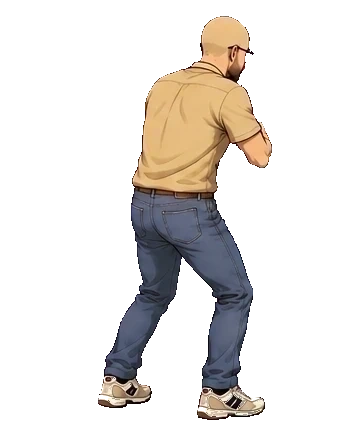
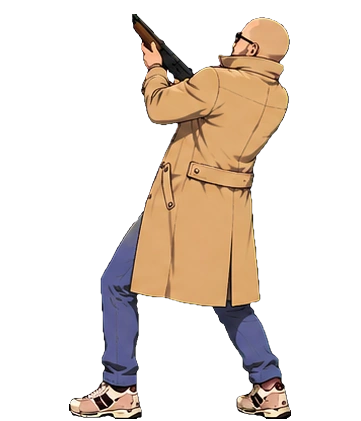
callaghan v7.04 : l'orientation des heros se DECLARE
- 28 sprites de la ruelle refaits, 7/7 poses detectees sur les quatre
  planches.
- LE RENDU RETOURNAIT L'INDICE 1 EN DUR, ce qui reposait sur une hypothese
  jamais ecrite : que toutes les planches regardent a droite. Les nouvelles
  regardent dans deux sens opposes — mesure, Thibaut a droite et PF a
  gauche. Retourner l'indice 1 aurait mis PF a l'endroit et Thibaut a
  l'envers.
- chaque planche declare son SENS NATIF, le rendu retourne seulement quand
  le sens voulu en differe. PF n'est plus miroite : son brassard POLICE
  reste du bon bras.
- deux scenes de controle ajoutees : tir et rechargement des deux heros.
- LES CANONS MESURES, pas devines : th_fumee [0.574, 0.416] et pf_debout
  [0.222, 0.603]. Les deux heros ont desormais le meme jeu de poses.
- un temoin unique par personnage : les sprites 'baisse' font 258 px contre
  406 pour 'vise', donc caler la recharge sur 'baisse' donnait une echelle
  de 0,50 contre 0,92.
- j'ai force h.abri, h.leve, h.couvert — trois champs qui N'EXISTENT PAS.
  Aucune erreur, aucun effet, et j'ai cru un instant a un defaut d'echelle
  de PF. En JS, ecrire un champ inexistant le cree.

Changed region(s): [[0.1828, 0.0309, 0.8227, 1.0]]

diff --git a/callaghan/index.html b/callaghan/index.html
@@ -783,7 +783,7 @@ kbd{
     <div class="lecture" id="dLecture"></div>
   </div>
 
-  <div id="version">CALLAGHAN v7.03</div>
+  <div id="version">CALLAGHAN v7.04</div>
 
   <div id="pupitre2">
     <button class="cmd2" id="c2G" aria-label="Aller à gauche">◀</button>
@@ -855,7 +855,7 @@ kbd{
      UIManager         -> Interface
 ================================================================== */
 
-const VERSION = "7.03";
+const VERSION = "7.04";
 
 /* ---------- géométrie ----------
    Tout est exprimé en « unités monde », où un personnage mesure
@@ -1822,10 +1822,24 @@ const OBJETS_RUELLE = [
 /* Les deux héros derrière la barricade, vus de dos. Thibaut a douze
    poses, PF onze : leurs planches n'en donnaient pas autant, et rien
    n'oblige deux personnages à avoir le même nombre d'images. */
+/* L'ORIENTATION NATIVE DE CHAQUE PLANCHE, déclarée. Le rendu retournait
+   l'héros d'indice 1 EN DUR — ce qui marchait tant que toutes les
+   planches regardaient du même côté. Les nouvelles regardent dans deux
+   sens opposés : Thibaut à droite, PF à gauche, mesuré sur les planches.
+   Un `+1` regarde à droite, un `-1` à gauche. Le rendu retourne
+   l'image quand le sens VOULU diffère du sens natif, au lieu de retourner
+   un indice choisi une fois pour toutes. */
+const SENS_NATIF = { ruel_th: +1, ruel_pf: -1 };
+
+/* Le sens vers lequel chaque héros doit regarder dans la ruelle : ils
+   encadrent la barricade, donc ils se font face. */
+const SENS_VOULU = [+1, -1];
+
 const POSES_RUEL_TH = ["accroupi", "leve1", "leve2", "debout", "arme1", "arme2",
-                       "vise1", "vise2", "tir", "recul1", "recul2", "baisse"];
-const POSES_RUEL_PF = ["accroupi", "leve1", "leve2", "arme1", "arme2", "vise",
-                       "tir", "fumee", "recul1", "recul2", "baisse"];
+                       "vise1", "vise2", "tir", "fumee", "recul1", "recul2",
+                       "baisse"];
+const POSES_RUEL_PF = ["accroupi", "leve1", "leve2", "debout", "arme1", "arme2",
+                       "vise", "tir", "fumee", "recul1", "recul2", "baisse"];
 /* L'intro du niveau 4 : le duo sur la ruelle floutée. Elle sert à deux
    choses — annoncer le niveau, et donner au navigateur le temps de
    charger le décor et les ennemis avant la première image. */
@@ -10324,8 +10338,13 @@ const CANONS = {
     baisse:[0.701, 0.421],   debout:[0.834, 0.496], leve1:[0.562, 0.407],
     leve2:[0.671, 0.393],    recul1:[0.825, 0.136], recul2:[0.725, 0.186],
     tir:[0.964, 0.160],      vise1:[0.894, 0.153],  vise2:[0.906, 0.167],
+    /* MESURÉE sur le nouveau sprite : l'arme retombe, la bouche descend
+       à mi-hauteur et recule au milieu du corps. */
+    fumee:[0.574, 0.416],
   },
   pf: {
+    /* MESURÉE sur le nouveau sprite. */
+    debout:[0.222, 0.603],
     accroupi:[0.701, 0.451], arme1:[0.911, 0.240], arme2:[0.958, 0.093],
     baisse:[0.729, 0.411],   fumee:[0.864, 0.128], leve1:[0.571, 0.492],
     leve2:[0.601, 0.494],    recul1:[0.787, 0.192], recul2:[0.751, 0.342],
@@ -11929,7 +11948,14 @@ const RuelleVue = {
         ang = borne(brut, VISEE_INCLINE_MIN, VISEE_INCLINE_MAX);
       }
       ctx.translate(ex, ey);
-      if (i === 1) ctx.scale(-1, 1);
+      /* ON RETOURNE SI LE SENS VOULU DIFFÈRE DU SENS NATIF de la planche,
+         au lieu de retourner l'indice 1 en dur. L'ancien code supposait
+         que toutes les planches regardaient à droite ; celles de la
+         ruelle regardent dans deux sens opposés — Thibaut à droite, PF à
+         gauche. Retourner l'indice 1 aurait donc mis PF à l'endroit et
+         Thibaut à l'envers. */
+      const natif = SENS_NATIF[h.sprite] || 1;
+      if (SENS_VOULU[i] !== natif) ctx.scale(-1, 1);
       ctx.rotate(-ang);
       ctx.drawImage(spr, -larg / 2, -haut * 0.34, larg, haut);
       /* La flamme de bouche est PEINTE, pas dessinée dans la planche :
@@ -13709,7 +13735,8 @@ globalThis.DTOUR = {
   attenuation, PORTEE_MIN, PORTEE_PLEINE, PROJ_HAUTEUR, ANNONCE_CARTE_MIN, GROGNE_DELAI,
   CANONS, POSES_RUEL_TH, POSES_RUEL_PF,
   HEURES, PART_TYPES, PART_MAX, FLAQUES, MOT_DUREE,
-  BARMANS, BAR_COMPTOIR, BAR_INTRO_PALIER, INTRO_PALIER, POSES_HEROS, POSES_RUEL_TH, POSES_RUEL_PF,
+  BARMANS, BAR_COMPTOIR, BAR_INTRO_PALIER, INTRO_PALIER, POSES_HEROS,
+  SENS_NATIF, SENS_VOULU,
   Transition, nomNiveau, sensNiveau, NOMS_NIVEAUX,
   ENNEMIS_RUELLE, IMAGES_NIVEAU4, Ruelle, RuelleVue, ARMES, ENNEMIS, ZONES_CORPS, VISEE_RECUL, VISEE_VITESSE, RELEVE_TH, RELEVE_PF, IA_REUSSITE, IA_CADENCE, POSES_RUEL_TH, POSES_RUEL_PF, RUELLE_COULOIRS, RUELLE_HORIZON, RUELLE_BARRICADE, RUELLE_DEGAT_BARRICADE, Enquete, EnqVue, Affaire, Dossier, LIENS, conseilInspecteur, PLACES, DEBOUT_APPART, ASSIS_APPART, HortenseApp, Visiteurs, VISITEURS, SUSPECTS, SUSPECTS_BANQUE, PLACES_FIXES, composerSuspects, INDICES, ZONES,
   Heros, Interface, Pause, ECHELLE_PERSO, echellePerso, imagesEssentielles, imagesDifferees, dossierPret, charger, ECHOS, PIECES, BAVARDAGES, SCENARIOS, RIEN, ENQ_TAILLE, ENQ_ACCUSATIONS, remplir, decouperLignes, IMG_CHEMIN, IMG_PAR_DOSSIER, cheminImage, listeImages,

diff --git a/callaghan/tests/apercu.js b/callaghan/tests/apercu.js
@@ -884,6 +884,42 @@ function jouerJusqua(D, condition, limite){
     ecrire(canevas, "48_foulee");
   }
 
+  /* 49. TIR ET RECHARGEMENT DES DEUX HÉROS, pour juger de l'ORIENTATION.
+     Les nouvelles planches regardent dans deux sens opposés — Thibaut à
+     droite, PF à gauche — et le rendu ne retourne plus l'indice 1 en dur
+     mais compare le sens VOULU au sens NATIF. Cette scène est le seul
+     endroit où l'on voit si les deux se font bien face. */
+  for (const [nom, etat] of [["49_ruelle_tir", "tir"], ["50_ruelle_recharge", "recharge"]]){
+    const { D, canevas } = await preparer(390, 780);
+    D.amorcer(); D.Camera.mesurer(390, 780, 1);
+    D.Jeu.demarrer(4);
+    D.Ruelle.introT = 0; D.Ruelle.introSortie = true;
+    D.Ruelle.annonce = null; D.Ruelle.mot = null;
+    for (let i = 0; i < 30; i++) D.Jeu.pas(1 / 60);
+    D.Ruelle.annonce = null;
+    /* LES DEUX HÉROS DOIVENT ÊTRE DEBOUT. Le jeu accroupit celui qui
+       n'est pas actif — c'est voulu, il se met à couvert — mais alors on
+       ne voit qu'une seule arme et on ne peut rien juger de
+       l'orientation. On force donc les deux hors de leur abri.
+       Ma première version forçait le tir sans lever l'abri : PF sortait
+       accroupi et j'ai cru un instant à un défaut d'échelle. */
+    /* `iaActive` EST CE QUI DÉCIDE. J'avais d'abord forcé `h.abri`,
+       `h.leve`, `h.couvert` — trois champs qui n'existent pas sur un
+       héros : l'abri est CALCULÉ au moment du dessin, à partir de
+       `Ruelle.iaActive` et de l'index actif. Forcer des variables sans
+       vérifier qu'elles existent ne fait rien et ne dit rien. */
+    D.Ruelle.iaActive = true;
+    D.Ruelle.couvert = false;
+    if (etat === "tir"){
+      for (const h of D.Ruelle.heros){ h.recharge = 0; h.tirT = 0.05; }
+      D.Ruelle.flashes = D.Ruelle.heros.map((h, i) => ({ heros:i, t:0.03, duree:0.06 }));
+    } else {
+      for (const h of D.Ruelle.heros){ h.recharge = 0.5; h.balles = 0; }
+    }
+    dessinerVia(D, canevas);
+    ecrire(canevas, nom);
+  }
+
   /* 27. les poses propres de Depardiahree, à leur taille de jeu, sur
      une même ligne de sol : c'est la seule façon de voir qu'une pose
      plus haute que les autres ne fait pas grandir le personnage. */

diff --git a/callaghan/parts/a_socle.js b/callaghan/parts/a_socle.js
@@ -18,7 +18,7 @@
      UIManager         -> Interface
 ================================================================== */
 
-const VERSION = "7.03";
+const VERSION = "7.04";
 
 /* ---------- géométrie ----------
    Tout est exprimé en « unités monde », où un personnage mesure
@@ -985,10 +985,24 @@ const OBJETS_RUELLE = [
 /* Les deux héros derrière la barricade, vus de dos. Thibaut a douze
    poses, PF onze : leurs planches n'en donnaient pas autant, et rien
    n'oblige deux personnages à avoir le même nombre d'images. */
+/* L'ORIENTATION NATIVE DE CHAQUE PLANCHE, déclarée. Le rendu retournait
+   l'héros d'indice 1 EN DUR — ce qui marchait tant que toutes les
+   planches regardaient du même côté. Les nouvelles regardent dans deux
+   sens opposés : Thibaut à droite, PF à gauche, mesuré sur les planches.
+   Un `+1` regarde à droite, un `-1` à gauche. Le rendu retourne
+   l'image quand le sens VOULU diffère du sens natif, au lieu de retourner
+   un indice choisi une fois pour toutes. */
+const SENS_NATIF = { ruel_th: +1, ruel_pf: -1 };
+
+/* Le sens vers lequel chaque héros doit regarder dans la ruelle : ils
+   encadrent la barricade, donc ils se font face. */
+const SENS_VOULU = [+1, -1];
+
 const POSES_RUEL_TH = ["accroupi", "leve1", "leve2", "debout", "arme1", "arme2",
-                       "vise1", "vise2", "tir", "recul1", "recul2", "baisse"];
-const POSES_RUEL_PF = ["accroupi", "leve1", "leve2", "arme1", "arme2", "vise",
-                       "tir", "fumee", "recul1", "recul2", "baisse"];
+                       "vise1", "vise2", "tir", "fumee", "recul1", "recul2",
+                       "baisse"];
+const POSES_RUEL_PF = ["accroupi", "leve1", "leve2", "debout", "arme1", "arme2",
+                       "vise", "tir", "fumee", "recul1", "recul2", "baisse"];
 /* L'intro du niveau 4 : le duo sur la ruelle floutée. Elle sert à deux
    choses — annoncer le niveau, et donner au navigateur le temps de
    charger le décor et les ennemis avant la première image. */

diff --git a/callaghan/parts/j_ruelle.js b/callaghan/parts/j_ruelle.js
@@ -353,8 +353,13 @@ const CANONS = {
     baisse:[0.701, 0.421],   debout:[0.834, 0.496], leve1:[0.562, 0.407],
     leve2:[0.671, 0.393],    recul1:[0.825, 0.136], recul2:[0.725, 0.186],
     tir:[0.964, 0.160],      vise1:[0.894, 0.153],  vise2:[0.906, 0.167],
+    /* MESURÉE sur le nouveau sprite : l'arme retombe, la bouche descend
+       à mi-hauteur et recule au milieu du corps. */
+    fumee:[0.574, 0.416],
   },
   pf: {
+    /* MESURÉE sur le nouveau sprite. */
+    debout:[0.222, 0.603],
     accroupi:[0.701, 0.451], arme1:[0.911, 0.240], arme2:[0.958, 0.093],
     baisse:[0.729, 0.411],   fumee:[0.864, 0.128], leve1:[0.571, 0.492],
     leve2:[0.601, 0.494],    recul1:[0.787, 0.192], recul2:[0.751, 0.342],
@@ -1958,7 +1963,14 @@ const RuelleVue = {
         ang = borne(brut, VISEE_INCLINE_MIN, VISEE_INCLINE_MAX);
       }
       ctx.translate(ex, ey);
-      if (i === 1) ctx.scale(-1, 1);
+      /* ON RETOURNE SI LE SENS VOULU DIFFÈRE DU SENS NATIF de la planche,
+         au lieu de retourner l'indice 1 en dur. L'ancien code supposait
+         que toutes les planches regardaient à droite ; celles de la
+         ruelle regardent dans deux sens opposés — Thibaut à droite, PF à
+         gauche. Retourner l'indice 1 aurait donc mis PF à l'endroit et
+         Thibaut à l'envers. */
+      const natif = SENS_NATIF[h.sprite] || 1;
+      if (SENS_VOULU[i] !== natif) ctx.scale(-1, 1);
       ctx.rotate(-ang);
       ctx.drawImage(spr, -larg / 2, -haut * 0.34, larg, haut);
       /* La flamme de bouche est PEINTE, pas dessinée dans la planche :

diff --git a/callaghan/parts/d_pilotage.js b/callaghan/parts/d_pilotage.js
@@ -1266,7 +1266,8 @@ globalThis.DTOUR = {
   attenuation, PORTEE_MIN, PORTEE_PLEINE, PROJ_HAUTEUR, ANNONCE_CARTE_MIN, GROGNE_DELAI,
   CANONS, POSES_RUEL_TH, POSES_RUEL_PF,
   HEURES, PART_TYPES, PART_MAX, FLAQUES, MOT_DUREE,
-  BARMANS, BAR_COMPTOIR, BAR_INTRO_PALIER, INTRO_PALIER, POSES_HEROS, POSES_RUEL_TH, POSES_RUEL_PF,
+  BARMANS, BAR_COMPTOIR, BAR_INTRO_PALIER, INTRO_PALIER, POSES_HEROS,
+  SENS_NATIF, SENS_VOULU,
   Transition, nomNiveau, sensNiveau, NOMS_NIVEAUX,
   ENNEMIS_RUELLE, IMAGES_NIVEAU4, Ruelle, RuelleVue, ARMES, ENNEMIS, ZONES_CORPS, VISEE_RECUL, VISEE_VITESSE, RELEVE_TH, RELEVE_PF, IA_REUSSITE, IA_CADENCE, POSES_RUEL_TH, POSES_RUEL_PF, RUELLE_COULOIRS, RUELLE_HORIZON, RUELLE_BARRICADE, RUELLE_DEGAT_BARRICADE, Enquete, EnqVue, Affaire, Dossier, LIENS, conseilInspecteur, PLACES, DEBOUT_APPART, ASSIS_APPART, HortenseApp, Visiteurs, VISITEURS, SUSPECTS, SUSPECTS_BANQUE, PLACES_FIXES, composerSuspects, INDICES, ZONES,
   Heros, Interface, Pause, ECHELLE_PERSO, echellePerso, imagesEssentielles, imagesDifferees, dossierPret, charger, ECHOS, PIECES, BAVARDAGES, SCENARIOS, RIEN, ENQ_TAILLE, ENQ_ACCUSATIONS, remplir, decouperLignes, IMG_CHEMIN, IMG_PAR_DOSSIER, cheminImage, listeImages,

diff --git a/callaghan/tests/tests.js b/callaghan/tests/tests.js
@@ -4775,7 +4775,14 @@ if (D){
       D.Ruelle.changerHeros();
       return avant === "thibaut,pf" &&
         D.Ruelle.heros.map(h => h.id).join(",") === avant &&
-        /if \(i === 1\) ctx\.scale\(-1, 1\)/.test(source);
+        /* L'INVARIANT N'EST PAS « on retourne l'indice 1 » mais « chacun
+           garde son côté ». Le retournement était écrit en dur, ce qui
+           supposait que toutes les planches regardaient à droite. Celles
+           de la ruelle regardent dans deux sens opposés — Thibaut à
+           droite, PF à gauche — donc le sens se DÉCLARE et le
+           retournement se déduit. */
+        D.SENS_VOULU.length === 2 && D.SENS_VOULU[0] === -D.SENS_VOULU[1] &&
+        /if \(SENS_VOULU\[i\] !== natif\) ctx\.scale\(-1, 1\)/.test(source);
     })());
 
   verifier("l'équipier couvre sans qu'on change de personnage",

diff --git a/callaghan/MEMOIRE.md b/callaghan/MEMOIRE.md
@@ -2235,6 +2235,39 @@ Les cases acquises sont maintenant protégées, et on renonce plutôt que
 d'écraser. Le symptôme n'apparaissait qu'une fois sur trois : **une
 suite lancée une seule fois ne prouve rien sur un tirage aléatoire**.
 
+#### Une orientation se DÉCLARE, elle ne se déduit pas d'un indice
+
+Le rendu de la ruelle retournait l'héros d'indice 1 en dur :
+`if (i === 1) ctx.scale(-1, 1)`. Ça marchait, et ça reposait sur une
+hypothèse jamais écrite — que toutes les planches regardent à droite.
+
+Les nouvelles planches regardent dans deux sens opposés : Thibaut à
+droite, PF à gauche. Retourner l'indice 1 aurait mis PF à l'endroit et
+Thibaut à l'envers.
+
+Chaque planche déclare désormais son sens natif, et le rendu retourne
+l'image seulement quand le sens VOULU en diffère. Effet de bord heureux :
+PF n'est plus miroité du tout, donc son brassard POLICE reste du bon bras.
+
+**Une constante en dur qui « marche » cache souvent une hypothèse sur les
+données.** Le jour où les données changent, elle ne se plaint pas : elle
+donne un résultat faux.
+
+#### Forcer une variable sans vérifier qu'elle existe ne fait rien
+
+Pour rendre les deux héros debout dans une scène de contrôle, j'ai forcé
+`h.abri`, `h.leve` et `h.couvert`. Aucun des trois n'existe : l'abri est
+CALCULÉ au moment du dessin, à partir de `Ruelle.iaActive` et de l'index
+actif.
+
+Le rendu est sorti identique, sans erreur, et j'ai d'abord cru à un défaut
+d'échelle de PF — j'ai mesuré ses sprites avant de comprendre qu'il était
+simplement accroupi, ce qui est le comportement normal du héros inactif.
+
+**En JavaScript, écrire un champ qui n'existe pas le crée** : aucune
+erreur, aucun effet. Lire le code qui décide vaut mieux que deviner le nom
+du champ.
+
 #### Ce que l'AUTRE écrit ne se régénère pas
 
 Thibaut a réécrit le prompt du bar en anglais, plus direct : profil strict,

diff --git a/callaghan/LISEZMOI.md b/callaghan/LISEZMOI.md
@@ -573,6 +573,23 @@ champion, tournée, affiche de la ruelle, fusillade. **Ajouter un écran
 plus tard ne demandera rien** — c'est là toute la valeur d'une règle
 générale : elle couvre aussi les écrans qui n'existent pas encore.
 
+**L'orientation des héros se DÉCLARE** (v7.04). Vingt-huit sprites de
+la ruelle refaits, et une correction de fond : le rendu retournait
+l'héros d'indice 1 **en dur**, ce qui ne marchait que si toutes les
+planches regardaient du même côté.
+
+Les nouvelles regardent dans deux sens opposés — mesuré, **Thibaut à
+droite et PF à gauche**. Retourner l'indice 1 aurait donc mis PF à
+l'endroit et Thibaut à l'envers. Chaque planche déclare son sens natif, et
+le rendu retourne l'image seulement quand le sens voulu en diffère.
+
+Effet de bord heureux : PF n'est plus miroité du tout, donc son brassard
+POLICE reste du bon bras.
+
+**Deux scènes de contrôle ajoutées** — tir et rechargement des deux héros
+côte à côte. C'est le seul endroit où l'on voit si les deux se font bien
+face.
+
 **La course ne sautille plus** (v7.03) : **trois** causes qui
 s'additionnaient, et deux venaient de moi.
 

diff --git a/callaghan/planches/LISEZMOI.md b/callaghan/planches/LISEZMOI.md
@@ -58,8 +58,12 @@ Rangées par `archiver.py`, jamais à la main.
 | `n3` | `heros_pf_verre.webp` | 109 Ko |
 | `n3` | `heros_th_deplacement.webp` | 97 Ko |
 | `n3` | `heros_th_verre.webp` | 98 Ko |
+| `n4` | `heros_pf_recharge.webp` | 95 Ko |
+| `n4` | `heros_pf_tir.webp` | 82 Ko |
+| `n4` | `heros_th_recharge.webp` | 95 Ko |
+| `n4` | `heros_th_tir.webp` | 94 Ko |
 
-**5.8 Mo au total.**
+**6.1 Mo au total.**
 
 ## 24 planches à identifier
 
